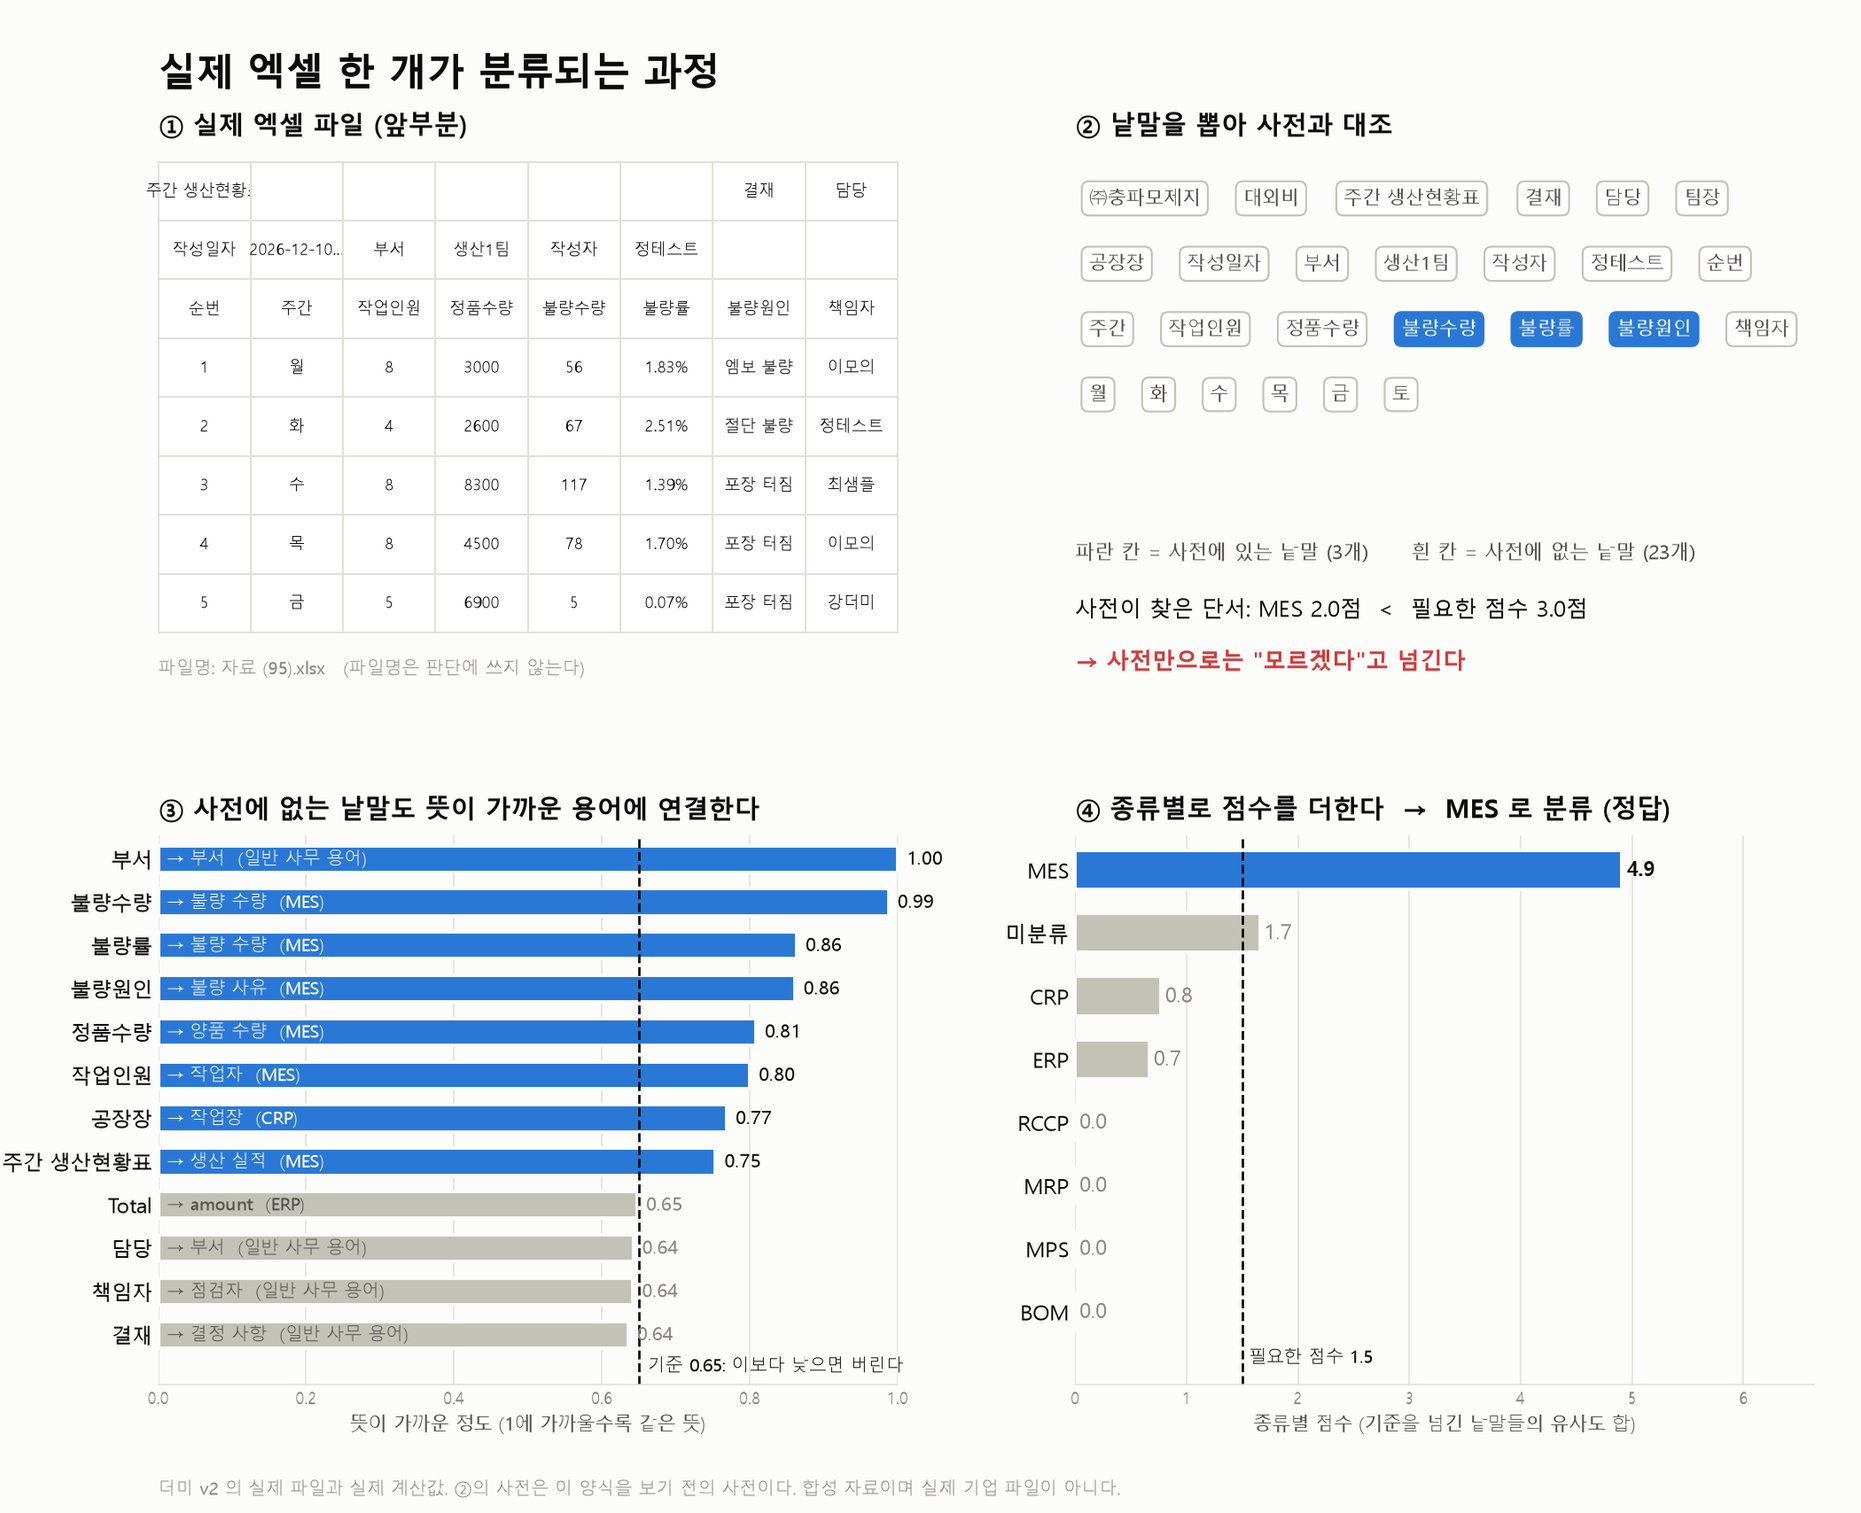
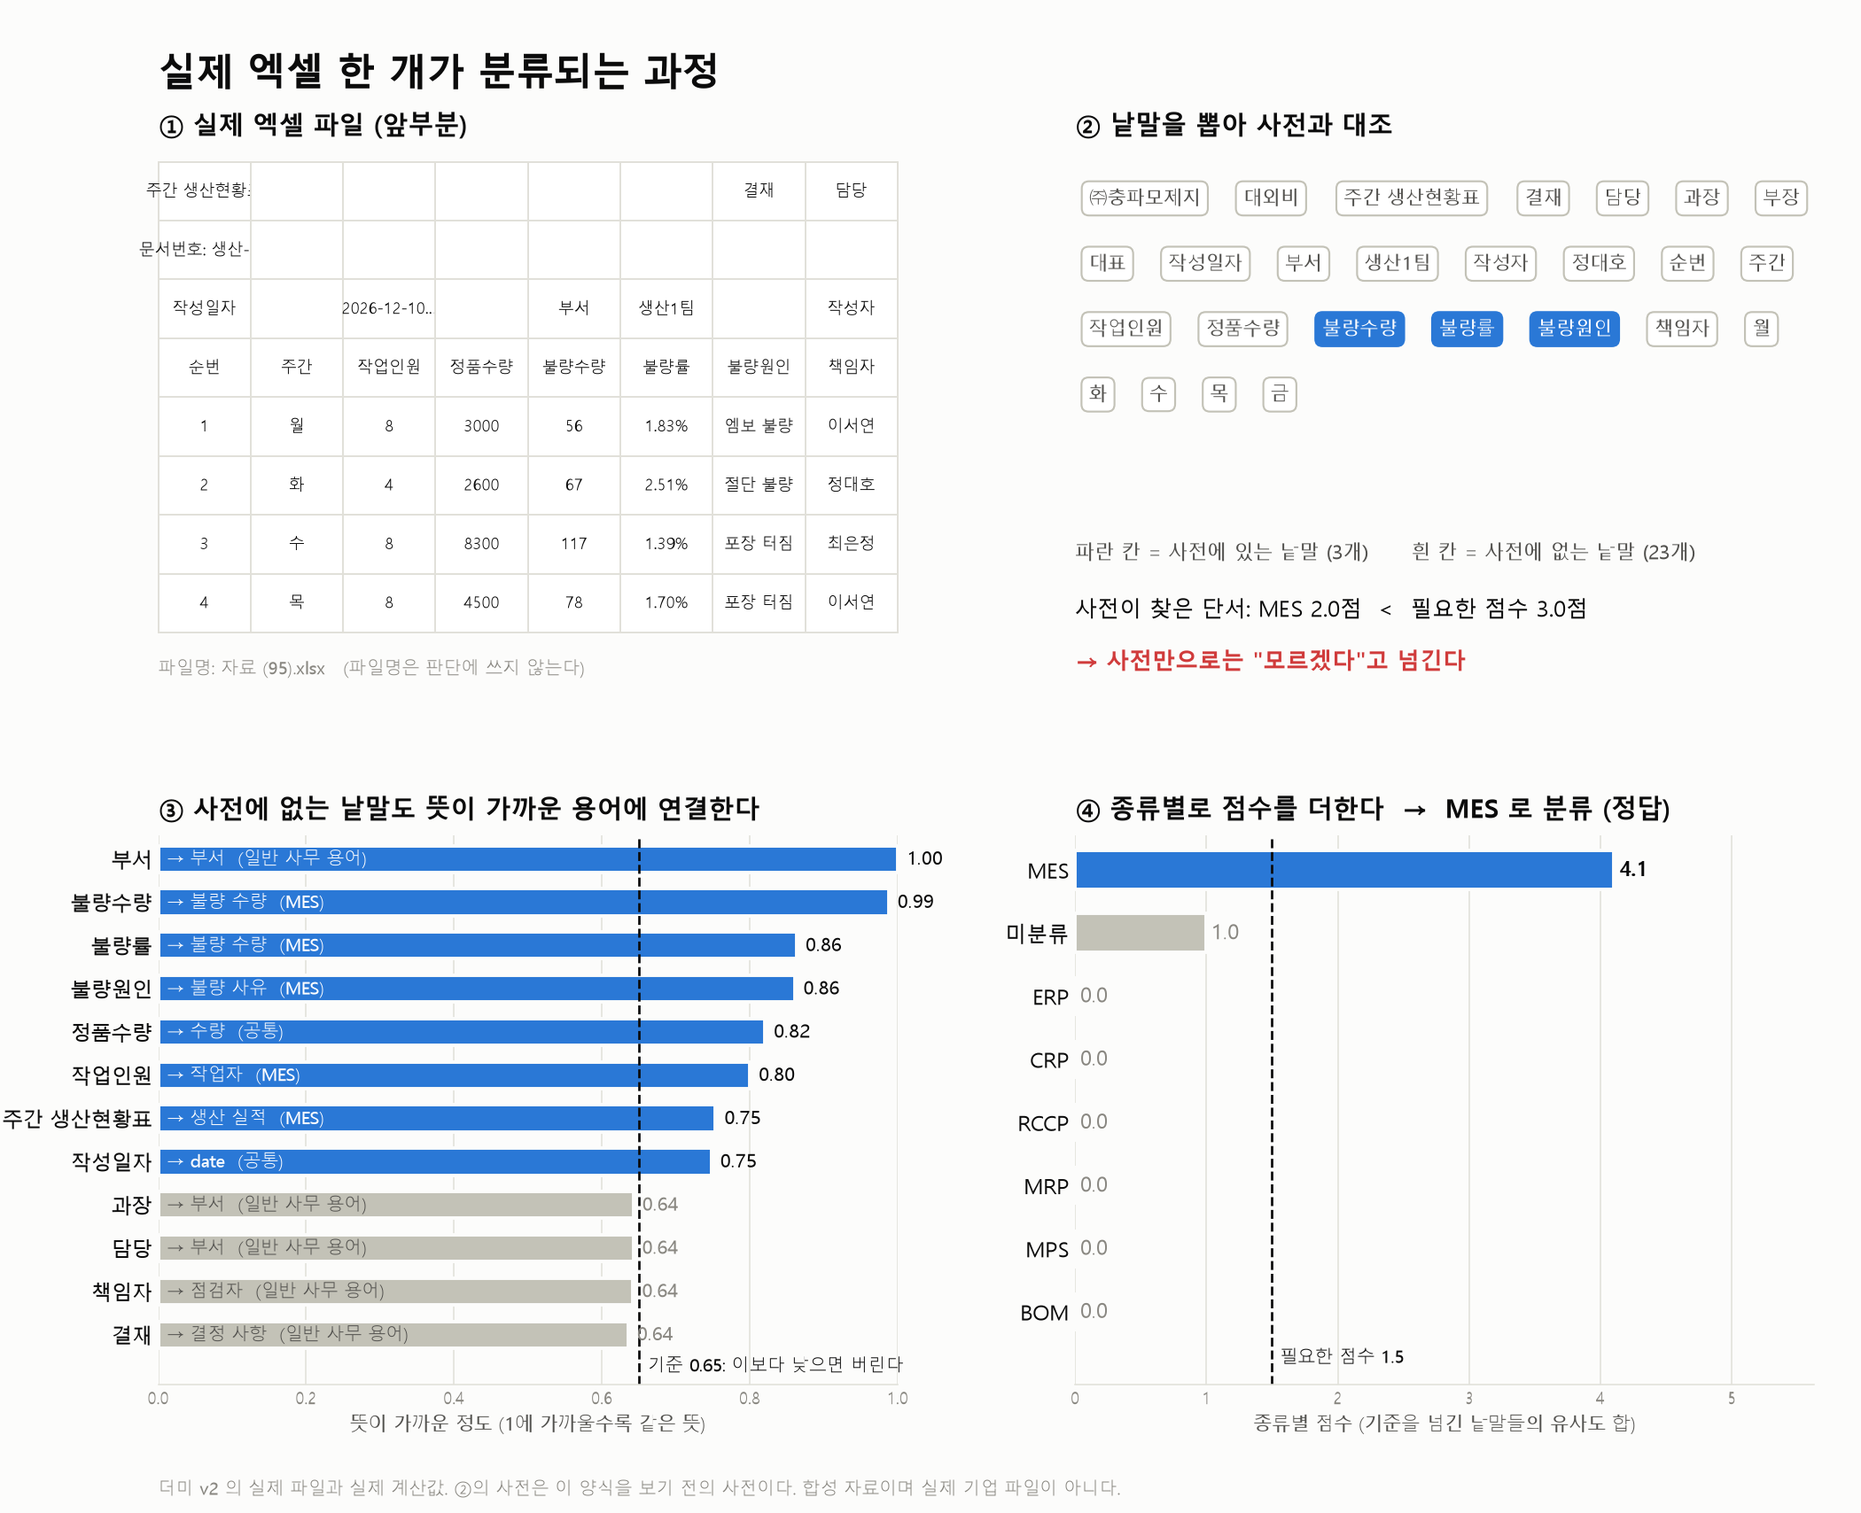
fix(file_classifier): 흔한 열 이름이 BOM 단서로 잡히던 의미 매칭 오분류 수정 (doctype-embed-0.2.0)
- 어느 문서에나 나오는 낱말(품목 코드, 자재명, 단위, 수량 등)을 모은 공통 묶음을 추가하고,
  여기에 가장 가까운 낱말은 어느 범주의 단서로도 세지 않는다.
- 이희원 담당 합성 자료 22종으로 확인: 사전+의미의 오분류 3건(자재 목록·자재투입내역·재고수불부를 BOM 으로 분류)이 0건이 됐다.
  정답 13 -> 17, 사전만은 16.
- 내 더미의 처음 보는 양식 109건은 정답 99 -> 97(89.0%), 오분류 1 -> 3. 이미 본 양식 200건은 196 -> 200.
- 결과 그림과 원리 그림 8장, README 수치를 새 값으로 갱신하고 다른 사람이 만든 자료로 확인한 결과를 README 에 추가.

검증(2026-11-22): modules/file_classifier pytest 317 passed.

diff --git a/modules/file_classifier/src/file_classifier/doctype_embed.py b/modules/file_classifier/src/file_classifier/doctype_embed.py
@@ -21,7 +21,7 @@ from dataclasses import dataclass, field
 from .doctype import UNKNOWN, Verdict, _collect
 
 MODEL = "BAAI/bge-m3"
-VERSION = "doctype-embed-0.1.0"
+VERSION = "doctype-embed-0.2.0"
 MAX_TERMS = 90          # 파일 하나에서 보는 낱말 수 상한
 TAU = 0.65              # 낱말과 기준 용어의 유사도가 이 이상일 때만 단서로 센다
 MIN_SCORE = 1.5         # 범주 점수(연결된 기준 용어들의 유사도 합)가 이 이상이어야 한다
@@ -49,6 +49,14 @@ CONCEPTS = {
               "employee", "attendance", "meeting minutes", "survey response", "training course", "vehicle log", "utility cost", "safety checklist"],
 }
 REVIEW = "확인 필요"
+COMMON = "공통"
+# 어느 문서에나 나오는 낱말. 여기에 가장 가까운 낱말은 어느 범주의 단서로도 세지 않는다.
+# 이 묶음이 없으면 '자재코드', '품목명', '단위' 같은 흔한 열 이름이 뜻이 비슷한 BOM 용어('자재명세서', '자품목', '단위 소요량')에 붙어,
+# 자재 목록이나 재고 자료가 BOM 으로 분류된다 (팀원이 만든 자료로 시험해 확인한 오분류).
+CONCEPTS[COMMON] = ["품목 코드", "품목명", "품목 구분", "자재 코드", "자재명", "자재 구분", "제품 코드", "제품명", "제품", "자재", "원자재", "부자재",
+                    "단위", "수량", "규격", "구분", "비고", "일자", "번호", "코드", "이름", "사용 여부",
+                    "item code", "item name", "item type", "material code", "material name", "material", "product code", "product name", "product",
+                    "unit", "quantity", "specification", "remarks", "date", "number", "code", "name", "type", "status", "period", "currency"]
 
 
 @dataclass
@@ -118,6 +126,8 @@ class SemanticMatcher:
         for term, vec in zip(terms, self._vectors(terms)):
             sims = self.concept_vectors @ vec
             j = int(sims.argmax())
+            if self.concepts[j][0] == COMMON:
+                continue
             if sims[j] >= self.tau and float(sims[j]) > best.get(self.concepts[j], (0.0, ""))[0]:
                 best[self.concepts[j]] = (float(sims[j]), term)          # 기준 용어 하나는 한 번만 센다
         scores: dict[str, float] = {}

diff --git a/modules/file_classifier/README.md b/modules/file_classifier/README.md
@@ -10,8 +10,8 @@
 
 1. **엑셀을 읽는다.** 제목, 결재란, 열 이름이 뒤섞인 실제 서식 그대로다. 파일명은 보지 않는다.
 2. **낱말을 뽑아 사전과 대조한다.** 26개 낱말 중 사전에 있는 것은 `불량수량`, `불량률`, `불량원인` 3개뿐이다. 점수가 2.0으로 필요한 3.0에 못 미쳐서, 사전만으로는 "모르겠다"고 넘긴다.
-3. **사전에 없는 낱말을 뜻이 가까운 용어에 연결한다.** `정품수량`은 사전에 없지만 `양품 수량`과 0.81만큼 닮았다. `작업인원`은 `작업자`와 0.80만큼 닮았다. 0.65보다 덜 닮은 연결은 버린다.
-4. **종류별로 점수를 더한다.** 현장 실적(MES)이 4.9점으로 2등(1.7점)을 크게 앞서서 MES로 분류한다. 정답이다.
+3. **사전에 없는 낱말을 뜻이 가까운 용어에 연결한다.** `작업인원`은 사전에 없지만 `작업자`와 0.80만큼 닮았다. 제목 `주간 생산현황표`는 `생산 실적`과 0.75만큼 닮았다. 0.65보다 덜 닮은 연결은 버린다. `정품수량`, `작성일자`처럼 어느 문서에나 나오는 `수량`, `일자`에 가장 가까운 낱말은 단서로 세지 않는다.
+4. **종류별로 점수를 더한다.** 현장 실적(MES)이 4.1점으로 2등(1.0점)을 크게 앞서서 MES로 분류한다. 정답이다.
 
 ## 왜 이 방식인가
 
@@ -25,15 +25,15 @@ AI 모델로 파일 전체를 한 문장처럼 만들어 각 종류의 설명과
 
 ![같은 파일을 통째로 비교했을 때와 낱말 단위로 비교했을 때](figures/p2_why_terms.png)
 
-전체 109개 파일에서도 같았다. 1등과 2등의 차이가 통째 비교에서는 1등 점수의 3%에 그쳤고, 낱말 단위에서는 56%였다(중앙값).
+전체 109개 파일에서도 같았다. 1등과 2등의 차이가 통째 비교에서는 1등 점수의 3%에 그쳤고, 낱말 단위에서는 71%였다(중앙값).
 
 ### 덜 닮은 연결은 버려야 한다
 
-모든 낱말을 가장 가까운 기준 용어에 연결하면 대부분은 엉뚱한 곳에 붙는다. 0.65보다 덜 닮은 연결 4,522개 중 86%가 틀린 종류였다. 그래서 0.65 이상만 단서로 쓴다.
+모든 낱말을 가장 가까운 기준 용어에 연결하면 대부분은 엉뚱한 곳에 붙는다. 0.65보다 덜 닮은 연결 4,538개 중 92%가 틀린 종류였다. 그래서 0.65 이상만 단서로 쓴다.
 
 ![유사도 분포와 기준 0.65](figures/p3_threshold.png)
 
-기준을 넘은 연결도 낱말 하나만 보면 절반쯤(51%)만 맞는다. 그래서 낱말 하나로 정하지 않고, 여러 낱말의 점수를 더한 뒤 1등과 2등의 차이가 충분할 때만 분류한다.
+기준을 넘은 연결도 낱말 하나만 보면 절반에 못 미치는 41%만 맞는다. 그래서 낱말 하나로 정하지 않고, 여러 낱말의 점수를 더한 뒤 1등과 2등의 차이가 충분할 때만 분류한다.
 
 ### 두 방법이 서로를 확인해 준다
 
@@ -41,25 +41,25 @@ AI 모델로 파일 전체를 한 문장처럼 만들어 각 종류의 설명과
 
 ![둘이 같은 답일 때와 다른 답일 때](figures/p4_why_combine.png)
 
-- **둘이 같은 답을 낸 61개는 전부 맞았다.** 그대로 분류한다.
-- **한쪽만 답한 29개 중 28개가 맞았다.** 답한 쪽을 따른다. 뜻 판단 혼자 맞힌 18개는 사전만 썼다면 놓쳤을 파일이다.
-- **둘이 다른 답을 낸 4개는 한쪽이 반드시 틀렸다.** 어느 쪽인지 알 수 없으므로 사람에게 확인을 요청한다.
+- **둘이 같은 답을 낸 58개는 전부 맞았다.** 그대로 분류한다.
+- **한쪽만 답한 31개 중 28개가 맞았다.** 답한 쪽을 따른다. 뜻 판단 혼자 맞힌 15개는 사전만 썼다면 놓쳤을 파일이다. 틀린 3개는 모두 사전 혼자 답한 경우다.
+- **둘이 다른 답을 낸 2개는 한쪽이 반드시 틀렸다.** 어느 쪽인지 알 수 없으므로 사람에게 확인을 요청한다.
 
 정리하면 사전이 못 정한 파일은 뜻으로 판단하고, 둘의 답이 다르면 "확인 필요"로 돌리고, 인사·회의록·점검표 같은 무관한 문서의 용어에 더 가까우면 "미분류"로 둔다. 뜻 판단에는 AI 임베딩 모델(BGE-M3)을 쓰며, 내 컴퓨터 안에서만 돌고 파일 내용을 밖으로 보내지 않는다.
 
 ## 결과
 
-**처음 보는 양식의 엑셀 100개 중 91개를 맞게 분류한다.** 이전에는 75개였다.
+**처음 보는 양식의 엑셀 100개 중 89개를 맞게 분류한다.** 이전에는 75개였다.
 
 ![처음 보는 엑셀 100개를 넣었을 때 이전과 지금](figures/1_waffle.png)
 
 ![핵심 숫자 세 가지](figures/2_before_after.png)
 
-- **맞게 분류한 비율이 75%에서 91%로 올랐다.**
-- **"모르겠다"고 넘기던 파일이 19건에서 1건으로 줄었다.** 사전에 없는 낱말이 나와도 뜻으로 알아본다.
-- **틀리게 분류한 파일이 5건에서 1건으로 줄었다.** 두 가지 판단이 서로 다르면 사람에게 확인을 요청하기 때문이다.
+- **맞게 분류한 비율이 75%에서 89%로 올랐다.**
+- **"모르겠다"고 넘기던 파일이 19건에서 7건으로 줄었다.** 사전에 없는 낱말이 나와도 뜻으로 알아본다.
+- **틀리게 분류한 파일이 5건에서 3건으로 줄었다.** 두 가지 판단이 서로 다르면 사람에게 확인을 요청하기 때문이다. 남은 3건은 사전이 틀렸는데 뜻 판단이 답을 내지 못한 경우다.
 
-약하던 문서 종류일수록 많이 올랐다. 현장 실적(MES)은 27%에서 73%로, BOM은 62%에서 100%로 올랐다.
+약하던 문서 종류일수록 많이 올랐다. 현장 실적(MES)은 27%에서 73%로, 설비 부하 검토(RCCP)는 67%에서 100%로 올랐다. BOM은 62%로 그대로다.
 
 ![문서 종류별 변화](figures/3_by_category.png)
 
@@ -67,7 +67,7 @@ AI 모델로 파일 전체를 한 문장처럼 만들어 각 종류의 설명과
 
 ![시도한 방식별 결과](figures/4_methods.png)
 
-> **숫자를 읽을 때 알아 둘 점.** 위 결과는 분류기가 **본 적 없는 양식**의 엑셀 109개로 잰 값이다. 엑셀은 실제 문서 형태를 본떠 만든 합성 자료이고, 실제 기업 파일로 잰 값은 아니다. 이미 본 양식에서는 200개 중 196개를 맞히고 나머지 4개는 확인을 요청하며, 틀리게 분류한 것은 없다.
+> **숫자를 읽을 때 알아 둘 점.** 위 결과는 분류기가 **본 적 없는 양식**의 엑셀 109개로 잰 값이다. 엑셀은 실제 문서 형태를 본떠 만든 합성 자료이고, 실제 기업 파일로 잰 값은 아니다. 이미 본 양식에서는 200개를 모두 맞힌다. 다른 사람이 만든 자료로 잰 결과는 아래 "다른 사람이 만든 자료로 확인"에 있다.
 
 ## 무엇으로 나누나
 
@@ -120,7 +120,7 @@ python -X utf8 modules/file_classifier/tools/make_principle_figures.py
 
 시험용 엑셀 200개(`samples/inbox/`, 모두 합성 자료)는 바로 열어 볼 수 있게 저장소에 올려 두었다. 저장소 `.gitignore`가 `.xlsx`를 막고 있어 이 폴더만 `git add -f`로 올렸으므로, 생성기를 고쳐 다시 만들었을 때도 같은 방법으로 올린다. 결과 파일(`분류결과*.xlsx`)은 올리지 않는다.
 
-2026-11-22에 200개를 같은 파일명·같은 표·같은 정답으로 다시 만들면서 실제 사무실 엑셀의 겉모습(글꼴, 머리글 색, 결재란, 숫자·날짜 서식)과 쓰던 흔적(형광펜, 메모, 숨긴 열, 빈 시트 등)을 더했다. 분류 결과는 "뜻만" 줄이 91건에서 90건으로 바뀐 것 외에 모두 같았다. `figures/4_methods.png`는 다시 그리지 않아 이 한 건이 이전 값으로 남아 있다.
+2026-11-22에 200개를 같은 파일명·같은 표·같은 정답으로 다시 만들면서 실제 사무실 엑셀의 겉모습(글꼴, 머리글 색, 결재란, 숫자·날짜 서식)과 쓰던 흔적(형광펜, 메모, 숨긴 열, 빈 시트 등)을 더했다. 분류 결과는 "뜻만" 줄이 91건에서 90건으로 바뀐 것 외에 모두 같았다(공통 낱말 묶음을 넣기 전 기준).
 
 ## 자세한 수치
 
@@ -129,19 +129,34 @@ python -X utf8 modules/file_classifier/tools/make_principle_figures.py
 | 구성 | 맞게 분류 | 확인 요청 | 모르겠다고 넘김 | 틀리게 분류 |
 |---|---|---|---|---|
 | 사전만 | 82 (75.2%) | 3 | 19 | 5 |
-| 뜻만 | 90 (82.6%) | 7 | 10 | 2 |
-| **사전 + 뜻** | **99 (90.8%)** | 8 | 1 | 1 |
+| 뜻만 | 86 (78.9%) | 3 | 20 | 0 |
+| **사전 + 뜻** | **97 (89.0%)** | 2 | 7 | 3 |
 
 이미 본 양식 기준(전체 200개, 지금의 사전).
 
 | 구성 | 맞게 분류 | 확인 요청 | 모르겠다고 넘김 | 틀리게 분류 |
 |---|---|---|---|---|
 | 사전만 | 200 | 0 | 0 | 0 |
-| 사전 + 뜻 | 196 (98.0%) | 4 | 0 | 0 |
+| 사전 + 뜻 | 200 | 0 | 0 | 0 |
 
 - 처리시간: 파일당 약 14ms(사전만), 약 57ms(사전 + 뜻, GPU, 모델을 올리는 시간 제외). CPU에서는 재지 않았다.
 - 기준값: 낱말 유사도 0.65 이상만 단서로 세고, 종류 점수 1.5 이상, 2순위와 0.6 이상 차이. 점수는 확률이 아니다.
 - 낱말을 일부러 가려 본 결과(사전만, 200개): 글자 칸의 절반을 모르는 낱말로 바꿔도 틀리게 분류한 것은 0건이었다.
+
+## 다른 사람이 만든 자료로 확인
+
+위 수치는 모두 내가 만든 더미로 잰 것이라, 2026-11-22에 이희원 담당 합성 자료(CHUNGPAMO-2027)의 CSV 중 양식이 서로 다르고 종류가 분명한 22개를 넣어 봤다. 정답은 파일 성격을 보고 내가 정했다.
+
+| 구성 | 맞게 분류 | 확인 요청 | 모르겠다고 넘김 | 틀리게 분류 |
+|---|---|---|---|---|
+| 사전만 | 16 | 1 | 5 | 0 |
+| 사전 + 뜻 (공통 낱말 묶음 넣기 전) | 13 | 4 | 2 | 3 |
+| **사전 + 뜻 (지금)** | **17** | 1 | 4 | 0 |
+
+- 처음에는 뜻 판단을 더하면 오히려 나빠졌다. `자재코드`, `자재명`, `단위` 같은 흔한 열 이름이 BOM 용어(`자재명세서`, `자품목`, `단위 소요량`)에 붙어서 자재 목록, 자재투입내역, 재고수불부를 BOM으로 분류했다.
+- 그래서 어느 문서에나 나오는 낱말을 모은 "공통" 묶음을 만들고, 여기에 가장 가까운 낱말은 단서로 세지 않게 했다(`doctype-embed-0.2.0`). 틀리게 분류한 것이 3건에서 0건이 됐다.
+- 대신 내 더미의 "처음 보는 양식" 수치는 91%에서 89%로 내려갔다. 이전에 맞힌 것 중 일부는 `Quantity` 같은 흔한 낱말이 우연히 맞는 종류에 붙어서 얻은 점수였다.
+- 22개뿐이라 한두 건에 수치가 크게 달라진다. 제목 없이 열 이름만 있는 CSV라서 엑셀 서식보다 단서가 적다. 공통 묶음은 이 자료를 본 뒤에 만들었으므로 이 표도 완전히 독립적인 시험은 아니다.
 
 ## 한계
 
@@ -150,7 +165,6 @@ python -X utf8 modules/file_classifier/tools/make_principle_figures.py
 - "처음 보는 양식" 측정도 완전히 독립적이지는 않다. 뜻 판단에 쓰는 기준 용어는 통용 용어로 골랐지만 더미를 본 뒤에 썼다.
 - 뜻 판단은 torch·transformers와 GPU가 있어야 실용적이다. HTTP API와 화면에는 아직 연결하지 않았다.
 - ERP는 "다른 여섯 종류에 해당하지 않는 기준정보·거래 자료"로 정의했다. 경계와 기준값은 팀 합의가 필요하다.
-- 분류기가 501을 반환한다고 가정한 통합 담당 소유 테스트 2개(`backend/tests/test_module_integration.py`, `tests/e2e/browser/handoff.spec.ts` 26줄)는 이 모듈에서 고칠 수 없어 그대로다.
 
 다음 단계: 팀이나 수요기업의 실제 엑셀을 받아 `sort_folder.py --embed`로 그대로 돌려 본다.
 
@@ -168,7 +182,7 @@ python -X utf8 modules/file_classifier/tools/make_principle_figures.py
 | 실제 형태를 본뜬 더미(v2)로 교체 | 사전을 고치지 않으면 68%, 고치면 100% | 새 양식을 만날 때마다 60~70%대로 떨어진다. 사전만으로는 한계가 있다 |
 | 파일을 통째로 임베딩해 비교 | 26% | 효과 없음 |
 | 정답 예시 파일과 비교 (kNN) | 5% | 다른 양식의 예시는 도움이 안 된다 |
-| **낱말 단위로 뜻을 비교해 사전과 합침** | **75% → 91%** | 채택. 이 문서의 맨 위 결과 |
+| **낱말 단위로 뜻을 비교해 사전과 합침** | **75% → 89%** | 채택. 이 문서의 맨 위 결과 |
 
 업로드 화면용 테이블 분류(`classify()`, `/classifications` API)는 그대로 동작한다. 열 이름을 보고 product / material / bom / inventory / monthly_demand 중 하나를 추천하거나 보류한다.
 
